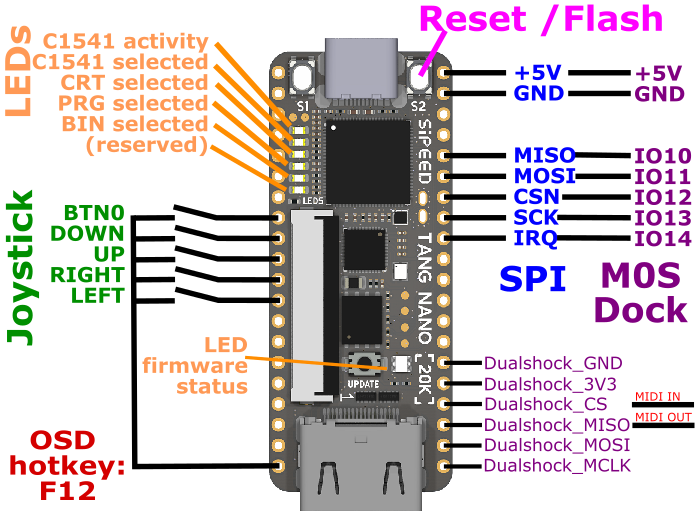
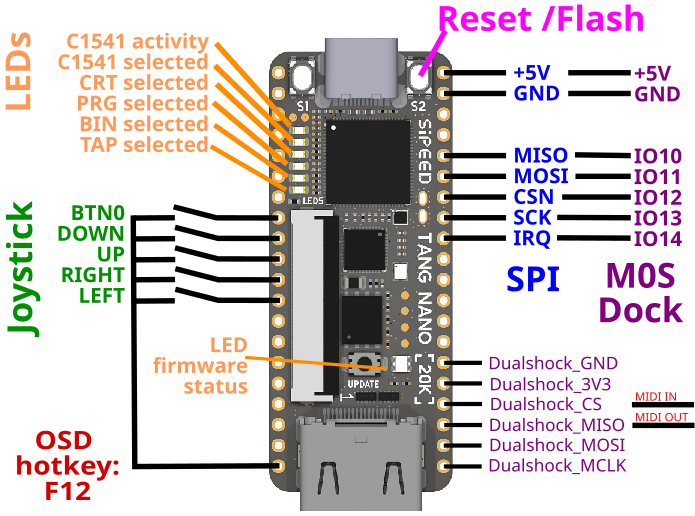
drawing and readme update

diff --git a/README.md b/README.md
@@ -65,20 +65,20 @@ In case a program don't load correctly select via OSD the factory default CBM DO
 ## Cartdrige ROM Loader (.CRT)
 Cartrige ROM can be loaded via OSD file selection.<br>
 Copy a *.CRT to your sdcard and rename it to **c64crt.crt** as default boot cartridge ROM.<br>
-Detach Cartrige by OSD CRT selection **No Disk** , **Save settings** and System **Cold Boot**.<br>
+Prevent Cartridge load at boot or for **Detach Cartrige** OSD CRT selection **No Disk** , **Save settings** and System **Cold Boot**.<br>
 
 ## BASIC Program Loader (.PRG)
 A BASIC Program *.PRG file can be loaded via OSD file selection.<br>
 Copy a *.PRG to your sdcard and rename it to **c64prg.prg** as default boot basic program.<br>
-Prevent PRG load by OSD PRG selection **No Disk** , **Save settings** and **Reset**.<br>
+Prevent PRG load at boot by OSD PRG selection **No Disk** , **Save settings** and **Reset**.<br>
 
 ## Tape Image Loader (*.TAP)
-A [Tape](https://en.wikipedia.org/wiki/Commodore_Datasette) *.TAP file can be loaded via OSD file selection.
+A [Tape](https://en.wikipedia.org/wiki/Commodore_Datasette) *.TAP file can be loaded via OSD file selection.<br>
 In order to start a tape download select CBM Kernal (mandatory) and type: LOAD<br>
-The file is loaded automatically as soon as file selected via OSD (no need to press PLAY button).<br>
-Screen will blank for some seconds and then display briefly the filename of the to be loaded file.<br> It will blank afterwards till load completed.
+The file is loaded automatically as soon as file selected via OSD (no need to press PLAY TAPE button).<br>
+Screen will blank for several seconds and then display briefly the filename of the to be loaded file.<br> It will blank afterwards till load completed. I will take time...<br>
 Copy a *.TAP to your sdcard and rename it to **c64tap.tap** as default boot tape.<br>
-Prevent PRG load by OSD PRG selection **No Disk** , **Save settings** and **Reset**.<br>
+Prevent TAP load at boot or for **Tape unload** OSD TAP selection **No Disk** , **Save settings** and **Reset**.<br>
 
 ## Kernal Loader (.BIN)
 Dolphin DOS 2.0 is the power-up default Kernal.<br>
@@ -160,7 +160,7 @@ You have first to set the DS2 Sticks into analog mode by pressing the DS2 ANALOG
 | 2 | CRT seleced | x | - | x |
 | 3 | PRG selected | x | - | x |
 | 4 | Kernal selected  | x | - | x |
-| 5 | (reserved TAP) | x | - | x |
+| 5 | TAP selected | x | - | x |
 
 Solid 'red' of the c1541 led after power-up indicates a missing DOS in Flash<br>
 
